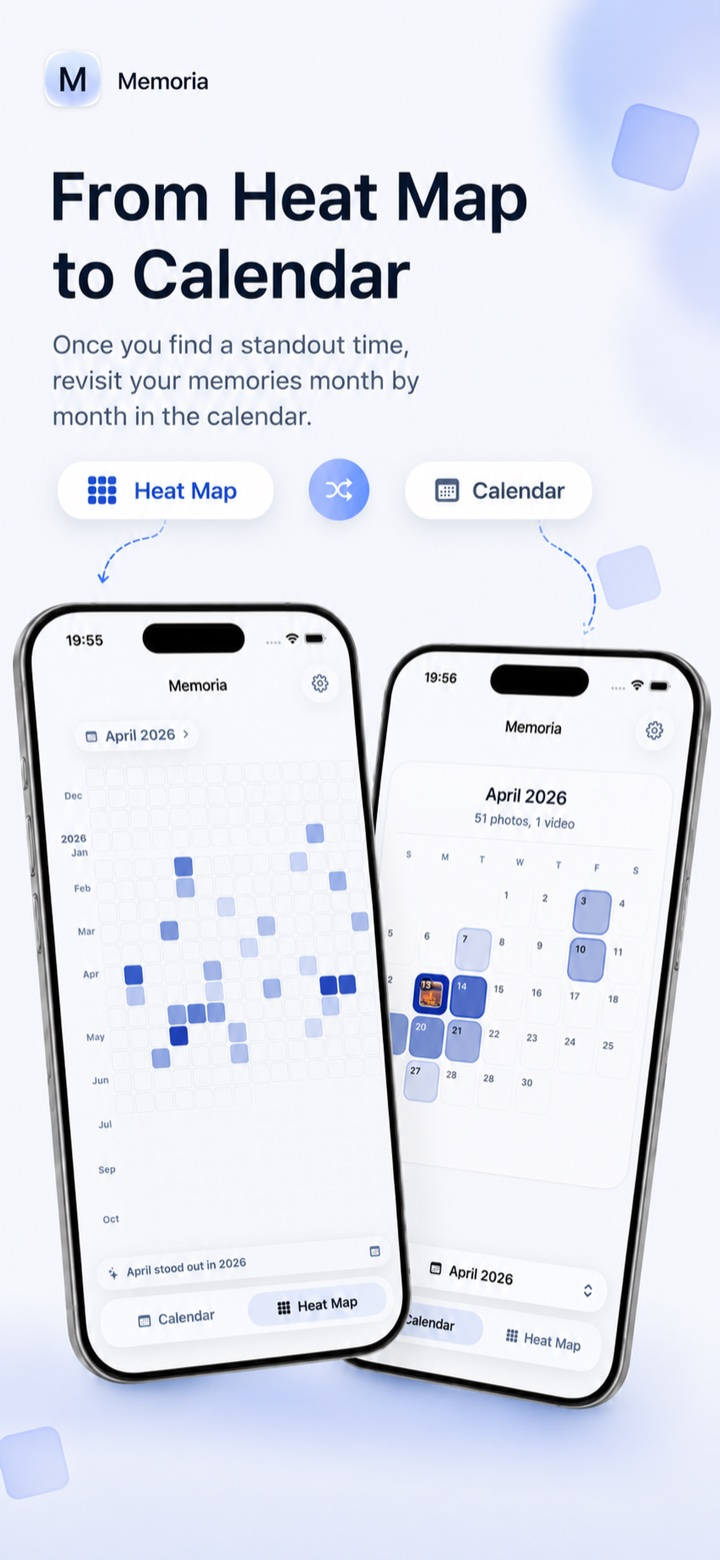
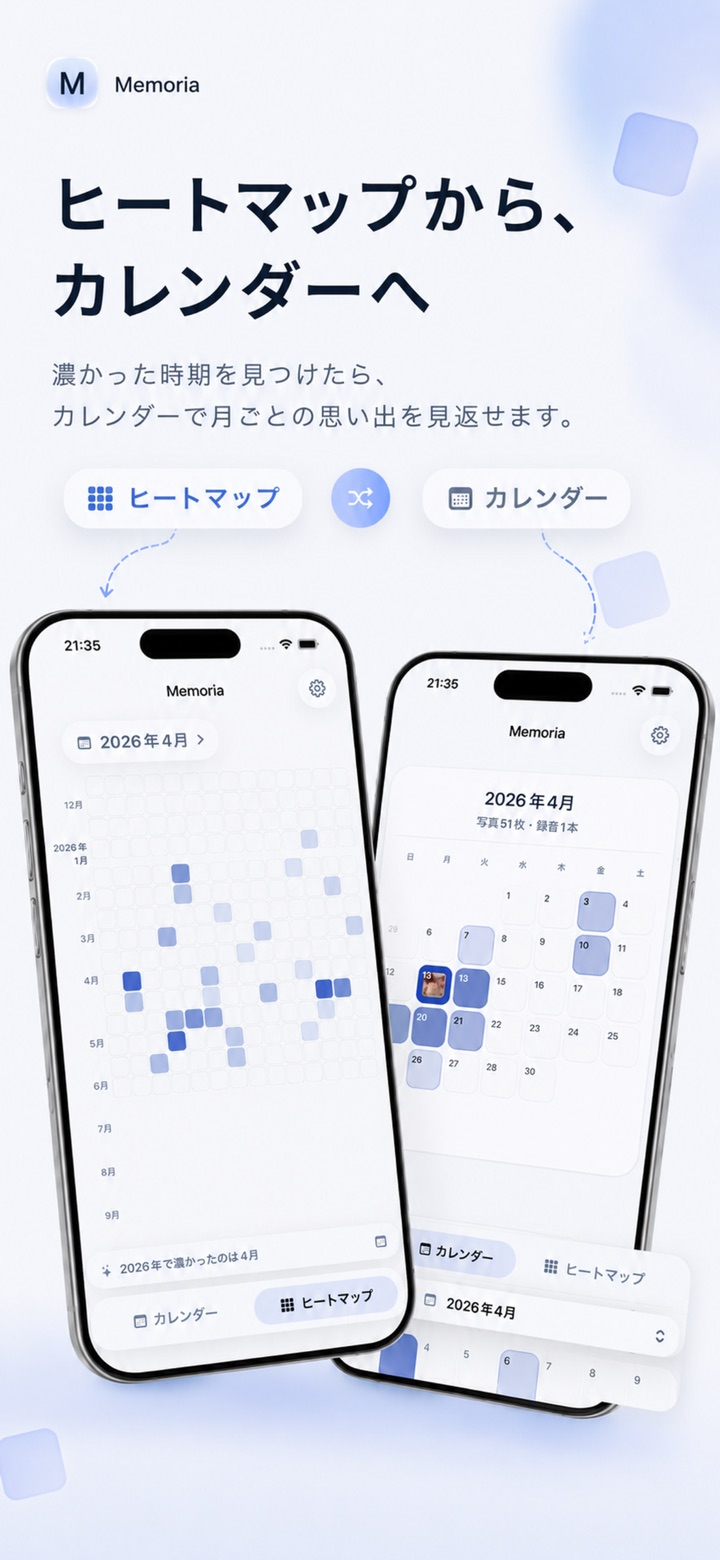
Refresh Memoria site metadata and assets

diff --git a/index.html b/index.html
@@ -4,15 +4,26 @@
 <head>
     <meta charset="UTF-8">
     <meta name="viewport" content="width=device-width, initial-scale=1.0">
-    <meta name="description" content="Memoriaは、写真が多かった日をヒートマップで見つけ、カレンダーや写真一覧で思い出を振り返るiOSアプリです。写真・動画は端末内で処理します。">
+    <meta name="description" content="Memoriaは、写真が多かった日をヒートマップで見つけ、カレンダーや写真一覧で思い出を振り返るiPhone・iPad向けアプリです。写真・動画は端末内で処理します。">
     <link rel="canonical" href="https://kurumeru.github.io/">
-    <link rel="stylesheet" href="CommonStyle.css">
+    <link rel="stylesheet" href="CommonStyle.css?v=20260713-2">
+    <link rel="icon" type="image/png" href="assets/icons/favicon.png">
+    <link rel="icon" type="image/png" href="assets/icons/favicon-dark.png" media="(prefers-color-scheme: dark)">
+    <link rel="apple-touch-icon" href="assets/icons/apple-touch-icon.png">
     <meta property="og:type" content="website">
-    <meta property="og:title" content="Memoria">
-    <meta property="og:description" content="写真が多かった日から、思い出を見つける。Memoriaは写真・動画を端末内で処理するiOSアプリです。">
+    <meta property="og:locale" content="ja_JP">
+    <meta property="og:title" content="Memoria｜写真が多かった日から、思い出を見つける">
+    <meta property="og:description" content="写真が多かった日から、思い出を見つける。Memoriaは写真・動画を端末内で処理するiPhone・iPad向けアプリです。">
     <meta property="og:url" content="https://kurumeru.github.io/">
-    <meta name="twitter:card" content="summary">
-    <title>Memoria</title>
+    <meta property="og:image" content="https://kurumeru.github.io/assets/og/memoria-og.png">
+    <meta property="og:image:width" content="1200">
+    <meta property="og:image:height" content="630">
+    <meta property="og:image:alt" content="Memoriaのアプリアイコンとヒートマップ画面">
+    <meta name="twitter:card" content="summary_large_image">
+    <meta name="twitter:title" content="Memoria｜写真が多かった日から、思い出を見つける">
+    <meta name="twitter:description" content="写真が多かった日をヒートマップで見つけ、思い出を振り返るiPhone・iPad向けアプリです。">
+    <meta name="twitter:image" content="https://kurumeru.github.io/assets/og/memoria-og.png">
+    <title>Memoria｜写真が多かった日から、思い出を見つける</title>
 </head>
 
 <body>
@@ -29,17 +40,17 @@
             <p class="eyebrow">Memoria</p>
             <h1 id="hero-title">写真が多かった日から、思い出を見つける。</h1>
             <p class="hero-copy">
-                Memoriaは、写真や動画の件数をヒートマップで可視化し、気になった日をカレンダーや写真一覧から振り返るためのiOSアプリです。
+                Memoriaは、写真や動画の件数をヒートマップで可視化し、気になった日をカレンダーや写真一覧から振り返るためのiPhone・iPad向けアプリです。
             </p>
             <div class="hero-actions">
-                <a class="app-store-button" href="https://apps.apple.com/app/apple-store/id6778837216?pt=129018011&amp;ct=GithubPages&amp;mt=8" target="_blank" rel="noopener" aria-label="App StoreでMemoriaを見る">
-                    App Storeで見る
+                <a class="app-store-badge-link" href="https://apps.apple.com/app/apple-store/id6778837216?pt=129018011&amp;ct=GithubPages&amp;mt=8" target="_blank" rel="noopener" aria-label="App StoreでMemoriaをダウンロード">
+                    <img class="app-store-badge" src="assets/badges/download-on-the-app-store-ja.svg" width="109" height="40" alt="App Storeからダウンロード">
                 </a>
                 <a class="secondary-link" href="#privacy">プライバシーについて</a>
             </div>
             <ul class="trust-points" aria-label="Memoriaの方針">
                 <li>写真・動画は端末内で処理</li>
-                <li>外部サーバーへ送信しません</li>
+                <li>写真・動画を外部サーバーへ送信しません</li>
                 <li>広告・トラッキング・分析SDKなし</li>
             </ul>
         </section>
@@ -53,15 +64,15 @@
             </div>
             <div class="screenshot-grid">
                 <figure class="screenshot-card">
-                    <img src="assets/screenshots/memoria-heatmap.jpg" width="720" height="1560" alt="Memoriaのヒートマップ画面" loading="lazy">
+                    <img src="assets/screenshots/memoria-heatmap.jpg?v=1.0.1" width="720" height="1560" alt="Memoriaのヒートマップ画面" loading="lazy">
                     <figcaption>写真や動画が多かった時期をヒートマップで確認</figcaption>
                 </figure>
                 <figure class="screenshot-card">
-                    <img src="assets/screenshots/memoria-calendar.jpg" width="720" height="1560" alt="ヒートマップからカレンダーへ移動する画面" loading="lazy">
+                    <img src="assets/screenshots/memoria-calendar.jpg?v=1.0.1" width="720" height="1560" alt="ヒートマップからカレンダーへ移動する画面" loading="lazy">
                     <figcaption>気になった月をカレンダーで振り返る</figcaption>
                 </figure>
                 <figure class="screenshot-card">
-                    <img src="assets/screenshots/memoria-photos.jpg" width="720" height="1560" alt="選んだ日の写真と動画を一覧で見る画面" loading="lazy">
+                    <img src="assets/screenshots/memoria-photos.jpg?v=1.0.1" width="720" height="1560" alt="選んだ日の写真と動画を一覧で見る画面" loading="lazy">
                     <figcaption>その日の写真と動画をまとめて見る</figcaption>
                 </figure>
             </div>
@@ -93,6 +104,18 @@
                         選んだ日の写真と動画をひとつの場所で見返せます。探す時間を減らし、思い出を見る時間を増やします。
                     </p>
                 </article>
+                <article class="feature-card">
+                    <h3>思い出の一枚を残す</h3>
+                    <p>
+                        大切な日には「思い出の一枚」を設定し、特別な記憶へすぐに戻れます。
+                    </p>
+                </article>
+                <article class="feature-card">
+                    <h3>好みの外観で楽しむ</h3>
+                    <p>
+                        ライトとダーク、ブルーとレッドの外観テーマから、見やすい組み合わせを選べます。
+                    </p>
+                </article>
             </div>
         </section>
 
@@ -119,13 +142,18 @@
                 </p>
             </div>
             <div class="contact-actions">
-                <a class="app-store-button" href="https://apps.apple.com/app/apple-store/id6778837216?pt=129018011&amp;ct=GithubPages&amp;mt=8" target="_blank" rel="noopener" aria-label="App StoreでMemoriaを見る">
-                    App Storeで見る
+                <a class="app-store-badge-link" href="https://apps.apple.com/app/apple-store/id6778837216?pt=129018011&amp;ct=GithubPages&amp;mt=8" target="_blank" rel="noopener" aria-label="App StoreでMemoriaをダウンロード">
+                    <img class="app-store-badge" src="assets/badges/download-on-the-app-store-ja.svg" width="109" height="40" alt="App Storeからダウンロード">
                 </a>
                 <a class="secondary-button" href="https://tally.so/r/EkBp1X" target="_blank" rel="noopener">お問い合わせフォーム</a>
                 <a class="secondary-button" href="Memoria_PrivacyPolicy.html">プライバシーポリシー</a>
             </div>
         </section>
+
+        <footer class="site-footer">
+            <p>© 2026 Yuto Saeki</p>
+            <p>Apple、Appleのロゴ、App Store、iPhone、iPadは、米国およびその他の国や地域で登録されたApple Inc.の商標です。</p>
+        </footer>
     </main>
 </body>
 

diff --git a/Memoria_PrivacyPolicy.html b/Memoria_PrivacyPolicy.html
@@ -6,12 +6,21 @@
     <meta name="viewport" content="width=device-width, initial-scale=1.0">
     <meta name="description" content="Memoriaのプライバシーポリシーです。写真ライブラリ、端末内保存情報、問い合わせ時の情報の取り扱いについて説明します。">
     <link rel="canonical" href="https://kurumeru.github.io/Memoria_PrivacyPolicy.html">
-    <link rel="stylesheet" href="CommonStyle.css">
+    <link rel="stylesheet" href="CommonStyle.css?v=20260713-2">
+    <link rel="icon" type="image/png" href="assets/icons/favicon.png">
+    <link rel="icon" type="image/png" href="assets/icons/favicon-dark.png" media="(prefers-color-scheme: dark)">
+    <link rel="apple-touch-icon" href="assets/icons/apple-touch-icon.png">
     <meta property="og:type" content="article">
+    <meta property="og:locale" content="ja_JP">
     <meta property="og:title" content="Memoria プライバシーポリシー">
     <meta property="og:description" content="Memoriaにおける情報の取り扱いについて説明します。">
     <meta property="og:url" content="https://kurumeru.github.io/Memoria_PrivacyPolicy.html">
-    <meta name="twitter:card" content="summary">
+    <meta property="og:image" content="https://kurumeru.github.io/assets/og/memoria-og.png">
+    <meta property="og:image:width" content="1200">
+    <meta property="og:image:height" content="630">
+    <meta property="og:image:alt" content="Memoriaのアプリアイコンとヒートマップ画面">
+    <meta name="twitter:card" content="summary_large_image">
+    <meta name="twitter:image" content="https://kurumeru.github.io/assets/og/memoria-og.png">
     <title>Memoria プライバシーポリシー</title>
 </head>
 
@@ -159,7 +168,7 @@
             本プライバシーポリシーに関する問い合わせは、以下の方法でご連絡ください。
         </p>
 
-        <a href="https://tally.so/r/EkBp1X">Memoria 問い合わせフォームリンク</a>
+        <a class="standalone-link" href="https://tally.so/r/EkBp1X">Memoria 問い合わせフォームリンク</a>
 
         <p>
             提供者：yuto saeki

diff --git a/CommonStyle.css b/CommonStyle.css
@@ -99,6 +99,12 @@ h4 {
     margin-top: 2em;
 }
 
+.standalone-link {
+    display: inline-flex;
+    align-items: center;
+    min-height: 44px;
+}
+
 .hero {
     padding: 28px 0 16px;
 }
@@ -131,28 +137,29 @@ h4 {
     margin-top: 28px;
 }
 
-.app-store-button,
+.app-store-badge-link,
 .secondary-button {
     display: inline-flex;
     align-items: center;
     justify-content: center;
     min-height: 48px;
-    padding: 0 18px;
     border-radius: 8px;
     font-weight: 700;
     text-decoration: none;
 }
 
-.app-store-button {
-    color: var(--accent-text);
-    background: var(--accent);
+.app-store-badge-link {
+    padding: 4px 0;
 }
 
-.app-store-button:hover {
-    background: var(--accent-hover);
+.app-store-badge {
+    display: block;
+    width: 164px;
+    height: auto;
 }
 
 .secondary-button {
+    padding: 0 18px;
     color: var(--text);
     border: 1px solid var(--border);
     background: var(--surface);
@@ -268,6 +275,19 @@ h4 {
     padding: 24px;
 }
 
+.site-footer {
+    margin-top: 48px;
+    padding-top: 24px;
+    border-top: 1px solid var(--border);
+    color: var(--muted);
+    font-size: 0.78rem;
+    line-height: 1.6;
+}
+
+.site-footer p {
+    margin: 6px 0 0;
+}
+
 .privacy-list {
     display: grid;
     gap: 10px;
@@ -349,7 +369,7 @@ a:focus-visible {
         margin-top: 56px;
     }
 
-    .app-store-button,
+    .app-store-badge-link,
     .secondary-button,
     .secondary-link {
         width: 100%;

diff --git a/404.html b/404.html
@@ -5,7 +5,10 @@
     <meta charset="UTF-8">
     <meta name="viewport" content="width=device-width, initial-scale=1.0">
     <meta name="robots" content="noindex">
-    <link rel="stylesheet" href="CommonStyle.css">
+    <link rel="stylesheet" href="/CommonStyle.css?v=20260713-2">
+    <link rel="icon" type="image/png" href="/assets/icons/favicon.png">
+    <link rel="icon" type="image/png" href="/assets/icons/favicon-dark.png" media="(prefers-color-scheme: dark)">
+    <link rel="apple-touch-icon" href="/assets/icons/apple-touch-icon.png">
     <title>ページが見つかりません | Memoria</title>
 </head>
 
@@ -13,7 +16,7 @@
     <main>
         <nav class="site-nav" aria-label="サイト内リンク">
             <a href="/">Memoria</a>
-            <a href="Memoria_PrivacyPolicy.html">プライバシーポリシー</a>
+            <a href="/Memoria_PrivacyPolicy.html">プライバシーポリシー</a>
         </nav>
 
         <h1>ページが見つかりません</h1>
@@ -21,7 +24,7 @@
             指定されたページは移動または削除された可能性があります。
         </p>
         <p class="link-list">
-            <a href="/">Memoria トップページへ戻る</a>
+            <a class="standalone-link" href="/">Memoria トップページへ戻る</a>
         </p>
     </main>
 </body>

diff --git a/README.md b/README.md
@@ -17,6 +17,17 @@ https://kurumeru.github.io/
 - `Memoria_PrivacyPolicy.html`: プライバシーポリシー
 - `CommonStyle.css`: 共通スタイル
 - `assets/screenshots/`: トップページで使用するスクリーンショット
+- `assets/icons/`: アプリアイコン、ファビコン、Apple Touch Icon
+- `assets/badges/`: Apple 公式の App Store バッジ
+- `assets/og/`: SNS やメッセージアプリで共有したときに表示する画像
 - `robots.txt`: クローラー向けの案内
 - `sitemap.xml`: 公開ページ一覧
 - `404.html`: 存在しない URL にアクセスされた場合のページ
+
+## アセットの更新元
+
+- アプリアイコンは `../Memoria-HeatMap-main/Memoria-HeatMap/Assets.xcassets/AppIcon.appiconset/` の `Default.png` と `Dark.png` を使用します。
+- トップページの日本語スクリーンショットは、公開中のアプリ版に対応する `../Memoria-HeatMap-release-next/docs/assets/app-store-screenshots/submitted/<version>/iPhone-ja/` から、ヒートマップ、カレンダー、写真一覧の3枚を使用します。
+- App Store バッジは Apple 公式の日本語版を使用します。色や文字、縦横比は変更しません。
+- 新しいアプリ版で画面や機能が変わった場合だけ、スクリーンショット、機能紹介、OGP画像を更新します。文言や画面に変更がないアプリ更新では、サイト側の作業は不要です。
+- `CommonStyle.css` を更新した場合は、各 HTML の `?v=` を新しい値へ揃えます。スクリーンショットを差し替えた場合も、`index.html` の画像URLにある `?v=` を公開するアプリ版へ更新し、古いキャッシュが残らないようにします。
